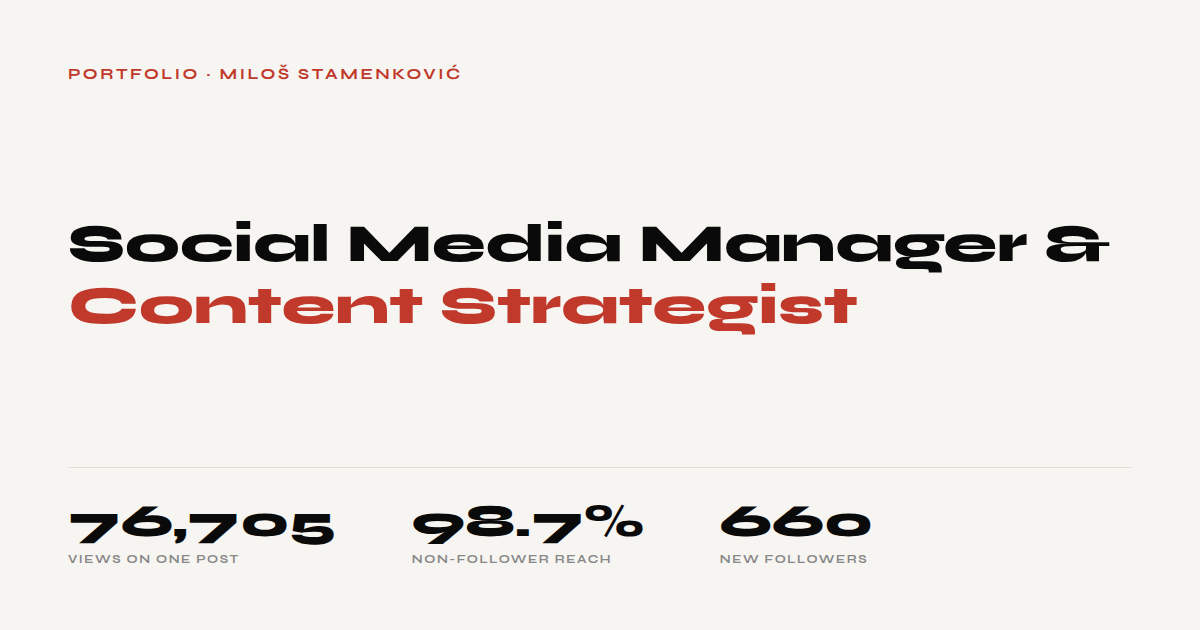
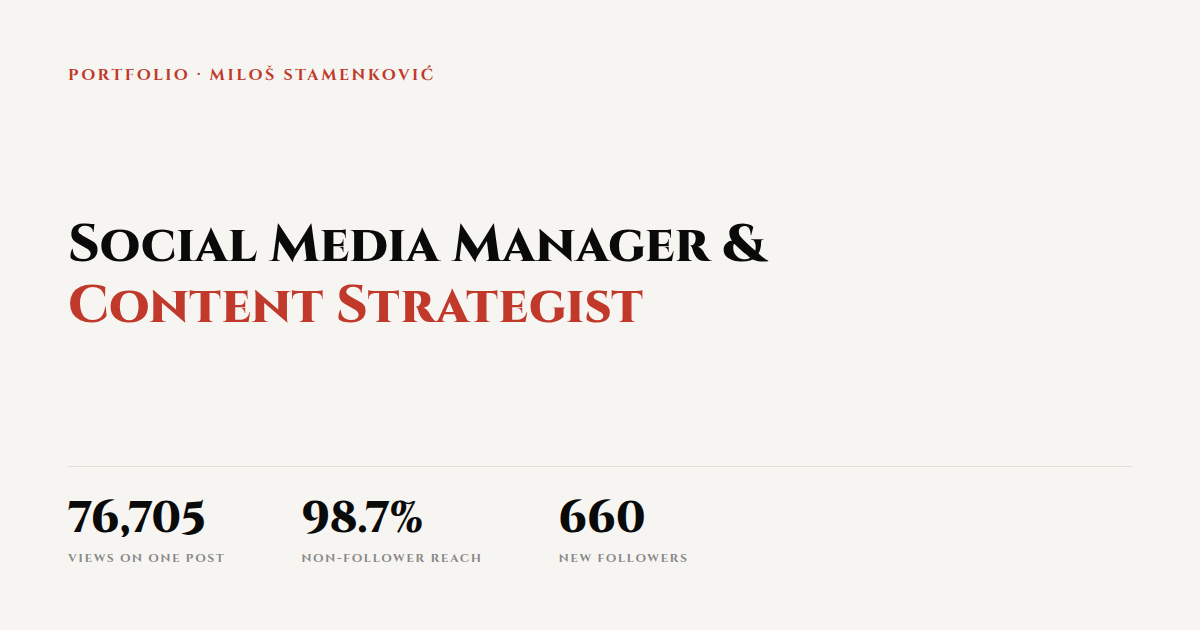
feat: font naslova Syne -> Cinzel (engleska verzija)
Isto kao u portfolio-milos. Odluka vlasnika sajta posle pregleda punog
rendera.

- layout.tsx: Cinzel (700, 800), subsets ['latin', 'latin-ext'] —
  obavezno zbog c c s z dj u imenima (Milos Stamenkovic, Tehnicki
  Pregled XL)
- --font-syne -> --font-display, fallback "Cinzel, serif", 12 fajlova +
  globals.css, bez preostalih referenci na Syne
- public/og.png regenerisan u Cinzelu
- CLAUDE.md azuriran istim obrazlozenjem

Provereno: build prolazi, nula overflow-a na 375px i 1440px, case slika
se ucitava, nula dijakritika u fallbacku.

Claude-Session: https://claude.ai/code/session_0178xDF7jtNgtmNz2Xb6VQxf

diff --git a/components/sections/Work.tsx b/components/sections/Work.tsx
@@ -181,7 +181,7 @@ function FeaturedCard({ p, i }: { p: Project; i: number }) {
       <p className="badge">{p.badge}</p>
       <h3
         style={{
-          fontFamily: 'var(--font-syne), Syne, sans-serif',
+          fontFamily: 'var(--font-display), Cinzel, serif',
           fontWeight: 800,
           fontSize: 'clamp(18px, 4.6vw, 26px)',
           color: '#fff',
@@ -196,7 +196,7 @@ function FeaturedCard({ p, i }: { p: Project; i: number }) {
           fontSize: 11,
           color: 'rgba(255,255,255,0.38)',
           marginBottom: 20,
-          fontFamily: 'var(--font-syne), Syne, sans-serif',
+          fontFamily: 'var(--font-display), Cinzel, serif',
           letterSpacing: '0.06em',
           textTransform: 'uppercase',
         }}
@@ -265,7 +265,7 @@ function FeaturedCard({ p, i }: { p: Project; i: number }) {
       <p
         style={{
           fontSize: 9,
-          fontFamily: 'var(--font-syne), Syne, sans-serif',
+          fontFamily: 'var(--font-display), Cinzel, serif',
           fontWeight: 700,
           letterSpacing: '0.12em',
           textTransform: 'uppercase',
@@ -330,7 +330,7 @@ export default function Work() {
                 <p className="badge">{p.badge}</p>
                 <h3
                   style={{
-                    fontFamily: 'var(--font-syne), Syne, sans-serif',
+                    fontFamily: 'var(--font-display), Cinzel, serif',
                     fontWeight: 800,
                     fontSize: 17,
                     color: 'var(--ink)',
@@ -344,7 +344,7 @@ export default function Work() {
                     fontSize: 10,
                     color: 'var(--ink-3)',
                     marginBottom: 14,
-                    fontFamily: 'var(--font-syne), Syne, sans-serif',
+                    fontFamily: 'var(--font-display), Cinzel, serif',
                     letterSpacing: '0.06em',
                     textTransform: 'uppercase',
                   }}
@@ -379,7 +379,7 @@ export default function Work() {
                 <p
                   style={{
                     fontSize: 9,
-                    fontFamily: 'var(--font-syne), Syne, sans-serif',
+                    fontFamily: 'var(--font-display), Cinzel, serif',
                     fontWeight: 700,
                     letterSpacing: '0.12em',
                     textTransform: 'uppercase',

diff --git a/app/globals.css b/app/globals.css
@@ -28,7 +28,7 @@ body {
 }
 
 .eyebrow {
-  font-family: var(--font-syne), 'Syne', sans-serif;
+  font-family: var(--font-display), 'Cinzel', serif;
   font-size: 10px;
   font-weight: 700;
   letter-spacing: 0.14em;
@@ -38,7 +38,7 @@ body {
 }
 
 .section-title {
-  font-family: var(--font-syne), 'Syne', sans-serif;
+  font-family: var(--font-display), 'Cinzel', serif;
   font-weight: 800;
   font-size: 42px;
   line-height: 1.15;
@@ -84,7 +84,7 @@ body {
 }
 
 .badge {
-  font-family: var(--font-syne), 'Syne', sans-serif;
+  font-family: var(--font-display), 'Cinzel', serif;
   font-size: 9px;
   font-weight: 700;
   letter-spacing: 0.12em;
@@ -98,7 +98,7 @@ body {
   align-items: center;
   background: var(--red);
   color: #fff;
-  font-family: var(--font-syne), 'Syne', sans-serif;
+  font-family: var(--font-display), 'Cinzel', serif;
   font-size: 10px;
   font-weight: 700;
   letter-spacing: 0.1em;
@@ -112,7 +112,7 @@ body {
   align-items: center;
   background: var(--ink);
   color: rgba(255, 255, 255, 0.7);
-  font-family: var(--font-syne), 'Syne', sans-serif;
+  font-family: var(--font-display), 'Cinzel', serif;
   font-size: 10px;
   font-weight: 700;
   letter-spacing: 0.1em;
@@ -127,7 +127,7 @@ body {
   background: transparent;
   color: var(--ink-3);
   border: 1px solid var(--paper-3);
-  font-family: var(--font-syne), 'Syne', sans-serif;
+  font-family: var(--font-display), 'Cinzel', serif;
   font-size: 10px;
   font-weight: 700;
   letter-spacing: 0.1em;
@@ -137,7 +137,7 @@ body {
 }
 
 .stat-number {
-  font-family: var(--font-syne), 'Syne', sans-serif;
+  font-family: var(--font-display), 'Cinzel', serif;
   font-weight: 800;
   font-size: 32px;
   color: var(--ink);
@@ -146,7 +146,7 @@ body {
 }
 
 .stat-label {
-  font-family: var(--font-syne), 'Syne', sans-serif;
+  font-family: var(--font-display), 'Cinzel', serif;
   font-size: 9px;
   font-weight: 700;
   letter-spacing: 0.12em;

diff --git a/components/sections/Process.tsx b/components/sections/Process.tsx
@@ -85,7 +85,7 @@ export default function Process() {
               >
                 <span
                   style={{
-                    fontFamily: 'var(--font-syne), Syne, sans-serif',
+                    fontFamily: 'var(--font-display), Cinzel, serif',
                     fontWeight: 800,
                     fontSize: 14,
                     color: '#fff',
@@ -106,7 +106,7 @@ export default function Process() {
                 >
                   <h3
                     style={{
-                      fontFamily: 'var(--font-syne), Syne, sans-serif',
+                      fontFamily: 'var(--font-display), Cinzel, serif',
                       fontWeight: 800,
                       fontSize: 16,
                       color: 'var(--ink)',
@@ -119,7 +119,7 @@ export default function Process() {
                       style={{
                         fontSize: 11,
                         color: 'var(--red)',
-                        fontFamily: 'var(--font-syne), Syne, sans-serif',
+                        fontFamily: 'var(--font-display), Cinzel, serif',
                         fontWeight: 700,
                         letterSpacing: '0.08em',
                       }}

diff --git a/components/sections/Cover.tsx b/components/sections/Cover.tsx
@@ -26,7 +26,7 @@ export default function Cover() {
 
           <h1
             style={{
-              fontFamily: 'var(--font-syne), Syne, sans-serif',
+              fontFamily: 'var(--font-display), Cinzel, serif',
               fontWeight: 800,
               fontSize: 'clamp(36px, 7vw, 68px)',
               lineHeight: 1.1,
@@ -96,7 +96,7 @@ export default function Cover() {
                 fontSize: 11,
                 color: 'var(--ink-3)',
                 textDecoration: 'none',
-                fontFamily: 'var(--font-syne), Syne, sans-serif',
+                fontFamily: 'var(--font-display), Cinzel, serif',
                 letterSpacing: '0.1em',
                 textTransform: 'uppercase',
                 fontWeight: 700,
@@ -113,7 +113,7 @@ export default function Cover() {
                 fontSize: 11,
                 color: 'var(--ink-3)',
                 textDecoration: 'none',
-                fontFamily: 'var(--font-syne), Syne, sans-serif',
+                fontFamily: 'var(--font-display), Cinzel, serif',
                 letterSpacing: '0.1em',
                 textTransform: 'uppercase',
                 fontWeight: 700,

diff --git a/components/sections/Services.tsx b/components/sections/Services.tsx
@@ -75,7 +75,7 @@ export default function Services() {
             >
               <span
                 style={{
-                  fontFamily: 'var(--font-syne), Syne, sans-serif',
+                  fontFamily: 'var(--font-display), Cinzel, serif',
                   fontWeight: 800,
                   fontSize: 28,
                   color: 'var(--paper-3)',
@@ -89,7 +89,7 @@ export default function Services() {
               <div style={{ flex: 1 }}>
                 <h3
                   style={{
-                    fontFamily: 'var(--font-syne), Syne, sans-serif',
+                    fontFamily: 'var(--font-display), Cinzel, serif',
                     fontWeight: 800,
                     fontSize: 17,
                     color: 'var(--ink)',
@@ -103,7 +103,7 @@ export default function Services() {
                 </p>
                 <p
                   style={{
-                    fontFamily: 'var(--font-syne), Syne, sans-serif',
+                    fontFamily: 'var(--font-display), Cinzel, serif',
                     fontSize: 9,
                     fontWeight: 700,
                     letterSpacing: '0.12em',

diff --git a/components/sections/Reviews.tsx b/components/sections/Reviews.tsx
@@ -46,7 +46,7 @@ export default function Reviews() {
           <p
             style={{
               fontSize: 9,
-              fontFamily: 'var(--font-syne), Syne, sans-serif',
+              fontFamily: 'var(--font-display), Cinzel, serif',
               fontWeight: 700,
               letterSpacing: '0.14em',
               textTransform: 'uppercase',
@@ -76,7 +76,7 @@ export default function Reviews() {
               <p
                 style={{
                   fontSize: 9,
-                  fontFamily: 'var(--font-syne), Syne, sans-serif',
+                  fontFamily: 'var(--font-display), Cinzel, serif',
                   fontWeight: 700,
                   letterSpacing: '0.14em',
                   textTransform: 'uppercase',
@@ -88,7 +88,7 @@ export default function Reviews() {
               </p>
               <p
                 style={{
-                  fontFamily: 'var(--font-syne), Syne, sans-serif',
+                  fontFamily: 'var(--font-display), Cinzel, serif',
                   fontWeight: 800,
                   fontSize: 14,
                   color: 'var(--ink)',

diff --git a/components/Nav.tsx b/components/Nav.tsx
@@ -40,7 +40,7 @@ export default function Nav() {
     >
       <span
         style={{
-          fontFamily: 'var(--font-syne), Syne, sans-serif',
+          fontFamily: 'var(--font-display), Cinzel, serif',
           fontWeight: 800,
           fontSize: 15,
           color: '#f7f5f1',
@@ -56,7 +56,7 @@ export default function Nav() {
             key={id}
             onClick={() => scrollTo(id)}
             style={{
-              fontFamily: 'var(--font-syne), Syne, sans-serif',
+              fontFamily: 'var(--font-display), Cinzel, serif',
               fontSize: 10,
               fontWeight: 700,
               letterSpacing: '0.08em',
@@ -79,7 +79,7 @@ export default function Nav() {
       <button
         onClick={() => window.print()}
         style={{
-          fontFamily: 'var(--font-syne), Syne, sans-serif',
+          fontFamily: 'var(--font-display), Cinzel, serif',
           fontSize: 10,
           fontWeight: 700,
           letterSpacing: '0.08em',

diff --git a/app/layout.tsx b/app/layout.tsx
@@ -1,12 +1,14 @@
 import type { Metadata } from 'next'
-import { Syne, Inter } from 'next/font/google'
+import { Cinzel, Inter } from 'next/font/google'
 import './globals.css'
 import './print.css'
 
-const syne = Syne({
-  subsets: ['latin'],
+const cinzel = Cinzel({
+  // latin-ext je obavezan: nosi č ć š ž đ. Bez njega dijakritike
+  // padaju u fallback i lome se usred reči.
+  subsets: ['latin', 'latin-ext'],
   weight: ['700', '800'],
-  variable: '--font-syne',
+  variable: '--font-display',
   display: 'swap',
 })
 
@@ -59,7 +61,7 @@ export const metadata: Metadata = {
 export default function RootLayout({ children }: { children: React.ReactNode }) {
   return (
     <html lang="en">
-      <body className={`${syne.variable} ${inter.variable}`}>{children}</body>
+      <body className={`${cinzel.variable} ${inter.variable}`}>{children}</body>
     </html>
   )
 }

diff --git a/components/sections/Contact.tsx b/components/sections/Contact.tsx
@@ -18,7 +18,7 @@ const contacts = [
 
 const cardLabel: React.CSSProperties = {
   fontSize: 9,
-  fontFamily: 'var(--font-syne), Syne, sans-serif',
+  fontFamily: 'var(--font-display), Cinzel, serif',
   fontWeight: 700,
   letterSpacing: '0.14em',
   textTransform: 'uppercase',
@@ -27,7 +27,7 @@ const cardLabel: React.CSSProperties = {
 }
 
 const cardValue: React.CSSProperties = {
-  fontFamily: 'var(--font-syne), Syne, sans-serif',
+  fontFamily: 'var(--font-display), Cinzel, serif',
   fontWeight: 800,
   fontSize: 14,
   color: 'var(--red)',
@@ -98,7 +98,7 @@ export default function Contact() {
         >
           <span
             style={{
-              fontFamily: 'var(--font-syne), Syne, sans-serif',
+              fontFamily: 'var(--font-display), Cinzel, serif',
               fontWeight: 800,
               fontSize: 22,
               color: '#fff',

diff --git a/components/sections/Reels.tsx b/components/sections/Reels.tsx
@@ -53,7 +53,7 @@ export default function Reels() {
               <div style={{ display: 'flex', alignItems: 'center', gap: 20 }}>
                 <span
                   style={{
-                    fontFamily: 'var(--font-syne), Syne, sans-serif',
+                    fontFamily: 'var(--font-display), Cinzel, serif',
                     fontSize: 9,
                     fontWeight: 700,
                     letterSpacing: '0.12em',
@@ -66,7 +66,7 @@ export default function Reels() {
                 </span>
                 <span
                   style={{
-                    fontFamily: 'var(--font-syne), Syne, sans-serif',
+                    fontFamily: 'var(--font-display), Cinzel, serif',
                     fontWeight: 800,
                     fontSize: 15,
                     color: f.dark ? 'var(--ink)' : '#fff',

diff --git a/components/sections/AITools.tsx b/components/sections/AITools.tsx
@@ -79,7 +79,7 @@ export default function AITools() {
               >
                 <span
                   style={{
-                    fontFamily: 'var(--font-syne), Syne, sans-serif',
+                    fontFamily: 'var(--font-display), Cinzel, serif',
                     fontWeight: 800,
                     fontSize: 11,
                     color: '#fff',
@@ -91,7 +91,7 @@ export default function AITools() {
               <div>
                 <h3
                   style={{
-                    fontFamily: 'var(--font-syne), Syne, sans-serif',
+                    fontFamily: 'var(--font-display), Cinzel, serif',
                     fontWeight: 800,
                     fontSize: 15,
                     color: 'var(--ink)',

diff --git a/components/sections/About.tsx b/components/sections/About.tsx
@@ -10,7 +10,7 @@ const A = {
 
 const cardLabel: React.CSSProperties = {
   fontSize: 9,
-  fontFamily: 'var(--font-syne), Syne, sans-serif',
+  fontFamily: 'var(--font-display), Cinzel, serif',
   fontWeight: 700,
   letterSpacing: '0.14em',
   textTransform: 'uppercase',
@@ -18,7 +18,7 @@ const cardLabel: React.CSSProperties = {
 }
 
 const cardTitle: React.CSSProperties = {
-  fontFamily: 'var(--font-syne), Syne, sans-serif',
+  fontFamily: 'var(--font-display), Cinzel, serif',
   fontWeight: 800,
   fontSize: 16,
   marginBottom: 8,
